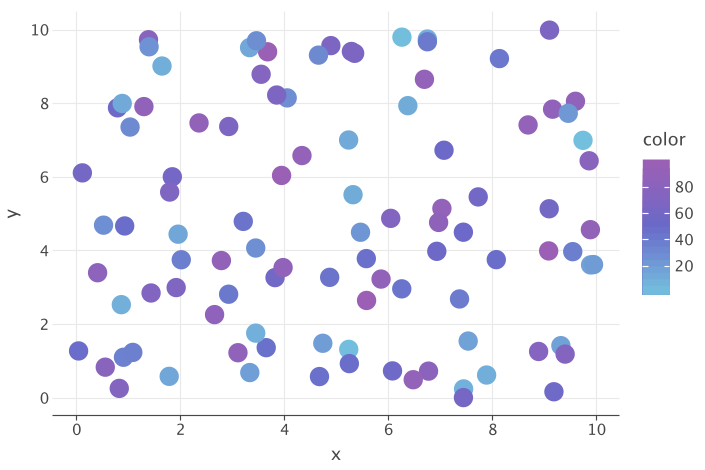
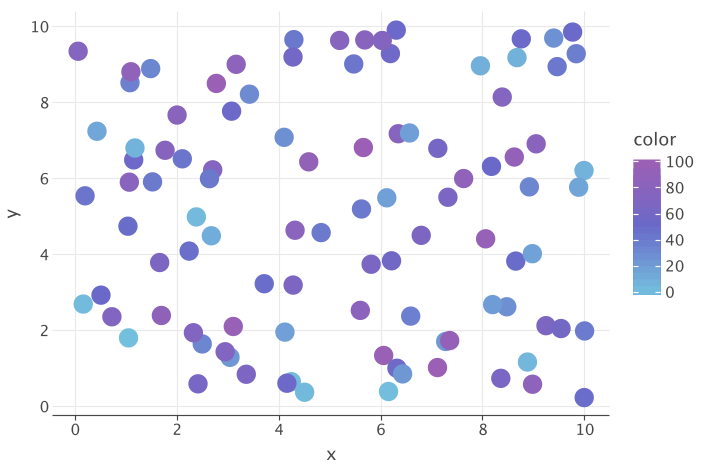
Updated gradient scale in points gradient

diff --git a/kandy-lets-plot/src/test/kotlin/org/jetbrains/kotlinx/kandy/letsplot/samples/points.kt b/kandy-lets-plot/src/test/kotlin/org/jetbrains/kotlinx/kandy/letsplot/samples/points.kt
@@ -204,7 +204,7 @@ class Points : SampleHelper("points") {
                 y(ys)
                 size = 7.5
                 color(gradient) {
-                    scale = continuous(Color.LIGHT_BLUE..Color.PURPLE)
+                    scale = continuous(Color.LIGHT_BLUE..Color.PURPLE, domain = 0.0..100.0)
                 }
             }
         }
@@ -544,7 +544,7 @@ class Points : SampleHelper("points") {
                 y(ys)
             }
         }
-        // SampleEnd
+            // SampleEnd
             .saveSample()
     }
 }

diff --git a/docs/topics/samples/points/Points-Gradient.md b/docs/topics/samples/points/Points-Gradient.md
@@ -30,7 +30,7 @@ plot {
         y(ys)
         size = 7.5
         color(gradient) {
-            scale = continuous(Color.LIGHT_BLUE..Color.PURPLE)
+            scale = continuous(Color.LIGHT_BLUE..Color.PURPLE, domain = 0.0..100.0)
         }
     }
 }
